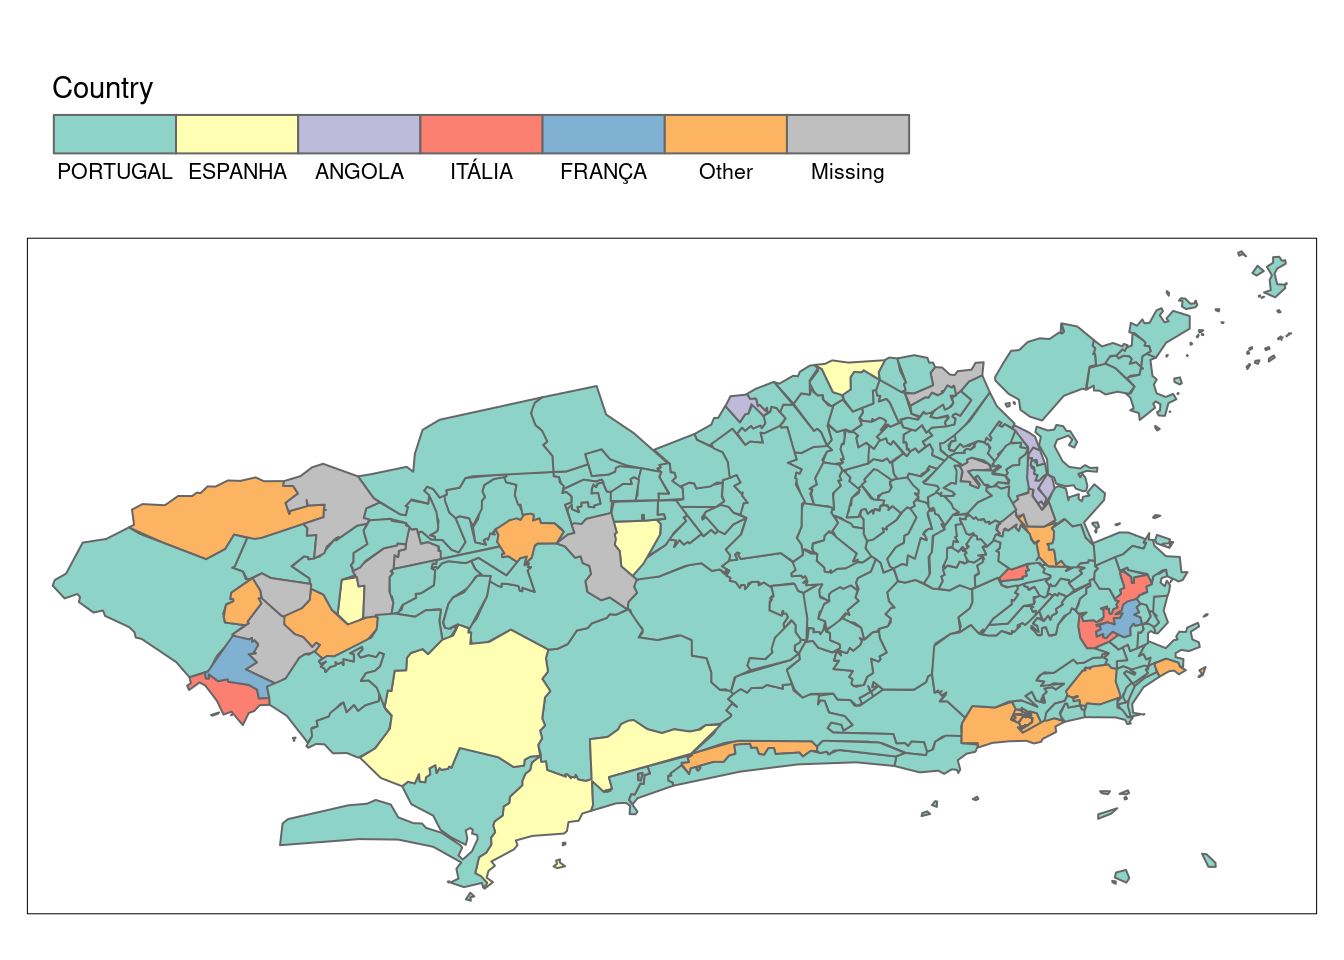
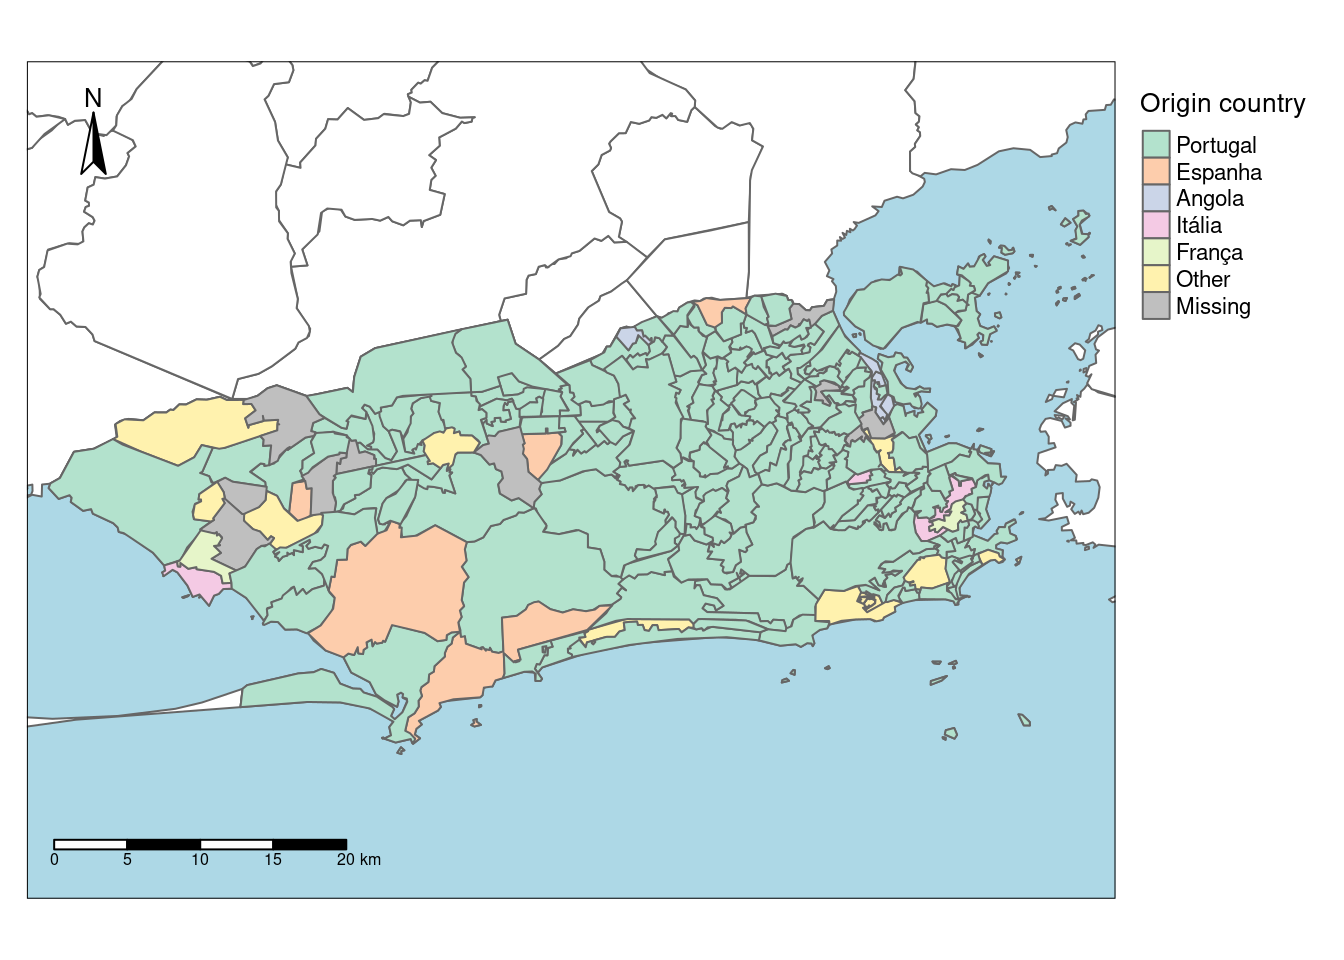
Some minor fixes on Censo Demográfico post.

diff --git a/content/post/2021-01-03-public-data-overview-brazilian-demographic-census-ibge/index.en.html b/content/post/2021-01-03-public-data-overview-brazilian-demographic-census-ibge/index.en.html
@@ -264,7 +264,7 @@ library(readxl)</code></pre>
   
   return(microdata)
 }</code></pre>
-<p><strong>Mind the file size!</strong> You may not be able to directly open this file in your memory. The computer used to run this code has 16 gigabytes of RAM. Consider using SQL databases if you have trouble<a href="#fn2" class="footnote-ref" id="fnref2"><sup>2</sup></a>.</p>
+<p><strong>Mind the file size!</strong> The computer used to run this code has 16 gigabytes of RAM, but you may not be able to directly open this file in your memory. Consider using SQL databases if you have trouble<a href="#fn2" class="footnote-ref" id="fnref2"><sup>2</sup></a>.</p>
 <pre class="r"><code>rio &lt;- read_microdata(&quot;~/RJ/Amostra_Pessoas_33.txt&quot;, &quot;pessoas&quot;)</code></pre>
 <p>The RJ people microdata has 2.1 Gb after loaded.</p>
 <pre class="r"><code>print(object.size(rio), units = &quot;auto&quot;)</code></pre>
@@ -545,6 +545,7 @@ rio_design &lt;- svydesign(
 <pre class="r"><code>library(geobr)
 library(tmap)
 rio_weighting &lt;- read_weighting_area(3304557)
+rj_mun &lt;- read_municipality(33)
 
 rio_final &lt;- rio_weighting %&gt;%
   left_join(
@@ -559,13 +560,18 @@ rio_final &lt;- rio_weighting %&gt;%
 <pre><code>## Linking to GEOS 3.8.0, GDAL 3.0.4, PROJ 6.3.1</code></pre>
 <p><img src="/post/2021-01-03-public-data-overview-brazilian-demographic-census-ibge/index.en_files/figure-html/unnamed-chunk-12-1.png" width="672" /></p>
 <p>Although this codification is easy to manipulate, it is difficult to read. Luckily, there is a spreadsheet in the <code>Documentacao.zip</code> file that helps the translation of these codes. Perhaps it is possible to parse it with the <code>readxl</code> package.</p>
-<pre class="r"><code>country_code &lt;- read_xls(&quot;~/Documentacao/Documentaç╞o/Anexos Auxiliares/Migraç╞o e Deslocamento_Paises estrangeiros.xls&quot;) %&gt;%
+<pre class="r"><code>library(janitor)
+
+country_code &lt;- read_xls(&quot;~/Documentacao/Documentaç╞o/Anexos Auxiliares/Migraç╞o e Deslocamento_Paises estrangeiros.xls&quot;) %&gt;%
   select(
     country = 2,
     code = 3
   ) %&gt;%
   slice(-3) %&gt;%
-  drop_na()
+  drop_na() %&gt;%
+  mutate(
+    country = str_to_title(country)
+  )
 
 rio_map &lt;- rio_final %&gt;%
   left_join(
@@ -576,17 +582,25 @@ rio_map &lt;- rio_final %&gt;%
     country = as_factor(country) %&gt;% fct_lump(5) # This is important to reduce the amount of classes
   )</code></pre>
 <p>Now, here is the map:</p>
-<pre class="r"><code>rio_map %&gt;%
-  tm_shape() +
+<pre class="r"><code>tm_shape(rj_mun, bbox = st_bbox(rio_map)) + tm_polygons(col = &quot;white&quot;) +
+tm_shape(rio_map) +
   tm_polygons(
+    title = &quot;Origin country&quot;,
     col = &quot;country&quot;,
-    legend.is.portrait = FALSE,
-    title = &quot;Country&quot;
+    palette = &quot;Pastel2&quot;
+  ) +
+  tm_scale_bar(
+    position = c(&quot;left&quot;, &quot;bottom&quot;)
+  ) +
+  tm_compass(
+    position = c(&quot;left&quot;, &quot;top&quot;)
   ) +
   tm_layout(
+    bg.color = &quot;lightblue&quot;,
     legend.outside = TRUE,
-    legend.outside.position = &quot;top&quot;,
-    legend.outside.size = .2
+    legend.outside.position = &quot;right&quot;,
+    legend.outside.size = .15,
+    asp = 1.3
   )</code></pre>
 <p><img src="/post/2021-01-03-public-data-overview-brazilian-demographic-census-ibge/index.en_files/figure-html/unnamed-chunk-14-1.png" width="672" /></p>
 </div>
@@ -611,7 +625,7 @@ rio_map &lt;- rio_final %&gt;%
 <hr />
 <ol>
 <li id="fn1"><p>In this article, hierarchy refers to which boundary contains which, e.g., the states contains the municipalities that contains the census tracts.<a href="#fnref1" class="footnote-back">↩</a></p></li>
-<li id="fn2"><p>Also consider to remake the function <code>read_microdata</code>. It isn’t the most efficient code in the universe.<a href="#fnref2" class="footnote-back">↩</a></p></li>
-<li id="fn3"><p>Other variables should be considered in your filter, e.g. the V1006 (Household situation) which characterizes the household as urban or rural.<a href="#fnref3" class="footnote-back">↩</a></p></li>
+<li id="fn2"><p>Also consider to redesign the function <code>read_microdata</code>. It isn’t the most efficient code in the universe. To open this file in R Markdown has taken so much time that the file was preprocessed outside the document and imported with a simple <code>readr::read_csv</code> call. The function works really well, but isn’t that optimized and the R Markdown stresses it.<a href="#fnref2" class="footnote-back">↩</a></p></li>
+<li id="fn3"><p>Other variables should be considered in your filter, e.g. the <code>V1006</code> (Household situation) which characterizes the household as urban or rural.<a href="#fnref3" class="footnote-back">↩</a></p></li>
 </ol>
 </div>
